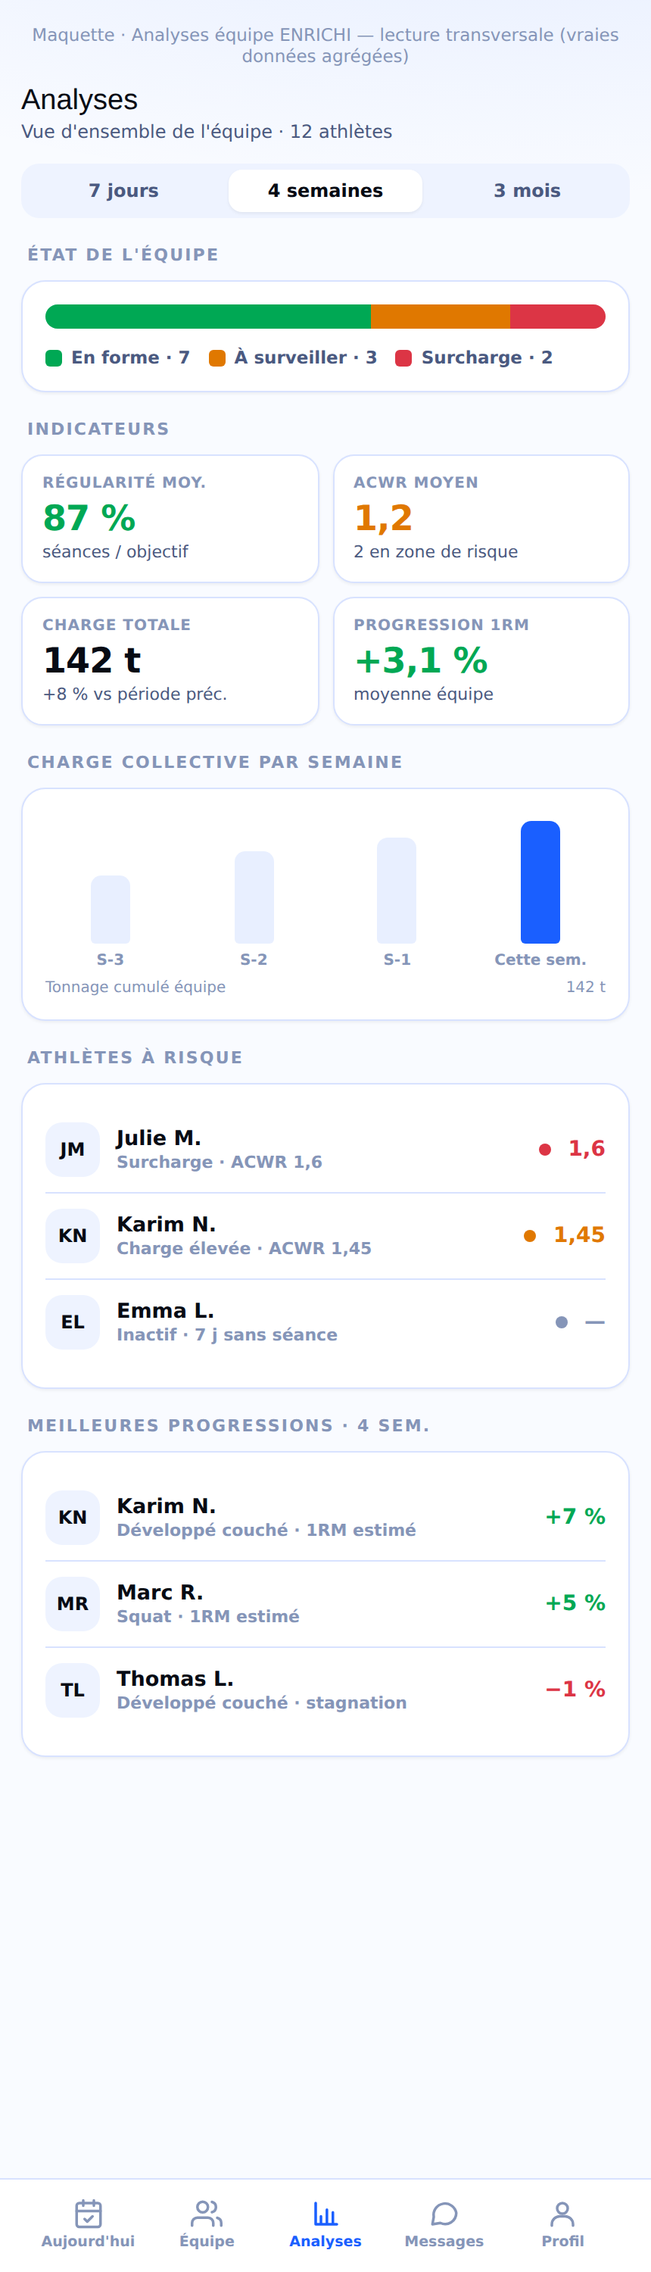
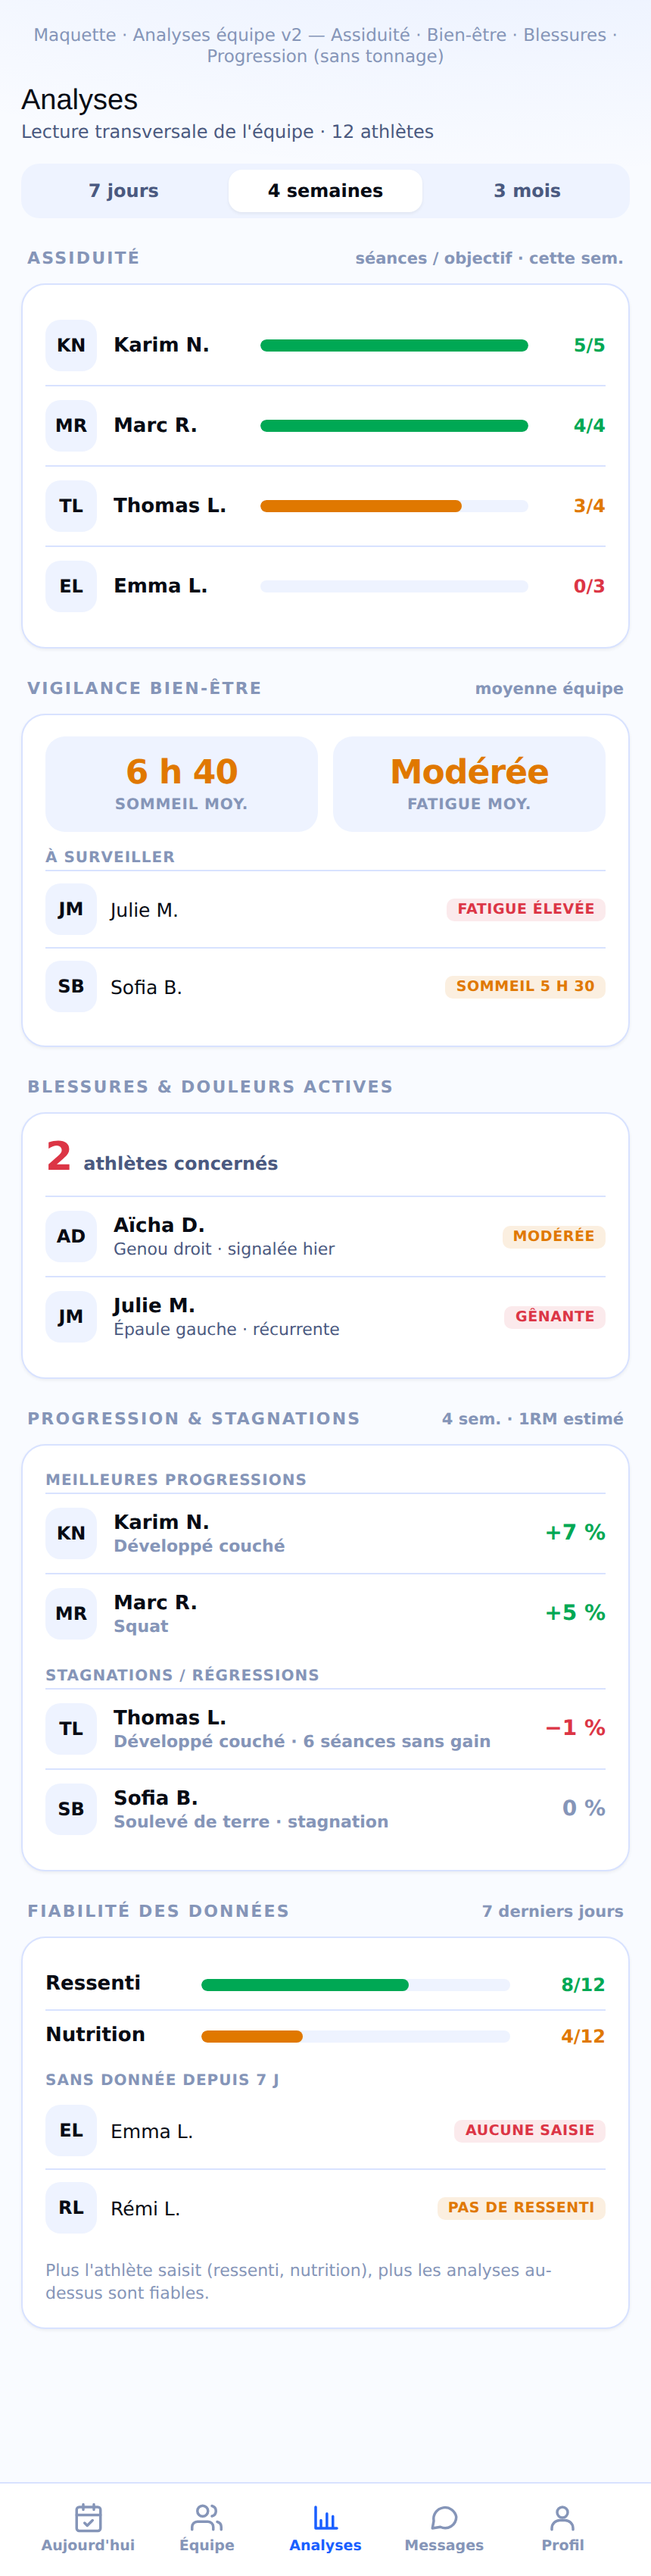
Maquette Analyses équipe v2 : assiduité, bien-être, blessures, progression, fiabilité (sans tonnage)
Remplace le tonnage/snapshot d'états par des blocs décisionnels non
redondants : Assiduité (classement régularité), Vigilance bien-être
(sommeil/fatigue moyens + à surveiller), Blessures & douleurs actives,
Progression & stagnations (1RM estimé), Fiabilité des données (taux de
saisie ressenti/nutrition).

Claude-Session: https://claude.ai/code/session_01Dyo8fwGQF8enz2j8mVwhAb

diff --git a/mockups/novalyz-coach-analyses-team.html b/mockups/novalyz-coach-analyses-team.html
@@ -1,6 +1,6 @@
 <!doctype html>
 <html lang="fr"><head><meta charset="utf-8"><meta name="viewport" content="width=device-width,initial-scale=1,viewport-fit=cover">
-<title>Novalyz — Analyses équipe (enrichi)</title>
+<title>Novalyz — Analyses équipe (v2)</title>
 <link href="https://fonts.googleapis.com/css2?family=Michroma&family=Inter:wght@400;500;600;700;800;900&display=swap" rel="stylesheet">
 <style>
   :root{--bg:#F9FBFF;--surface:#FFFFFF;--surface2:#EEF3FF;--border:#D8E2FF;--text:#070B14;--text-muted:#4A5980;--text-subtle:#8595B8;--accent:#1A5FFF;--accent-a10:rgba(26,95,255,.10);--good:#00A854;--good-a:rgba(0,168,84,.12);--warn:#E07800;--warn-a:rgba(224,120,0,.12);--danger:#DC3545;--danger-a:rgba(220,53,69,.10);--sh-sm:0 1px 2px rgba(7,11,20,.06)}
@@ -9,62 +9,88 @@
   body{background:radial-gradient(1100px 420px at 80% -8%,var(--accent-a10),transparent 60%),var(--bg);color:var(--text);font-family:Inter,system-ui,sans-serif;-webkit-font-smoothing:antialiased;padding:16px 14px 90px;min-height:100vh}
   .phone{max-width:420px;margin:0 auto}.mk-note{max-width:420px;margin:0 auto 12px;font-size:11.5px;color:var(--text-subtle);text-align:center}
   h1{font-family:Michroma,sans-serif;font-weight:400;font-size:19px;margin:2px 0 2px}.sub{font-size:12px;color:var(--text-muted);margin-bottom:14px}
-  .seg{display:flex;gap:6px;background:var(--surface2);border-radius:12px;padding:4px;margin-bottom:16px}.seg .s{flex:1;text-align:center;font-size:12px;font-weight:700;padding:7px 0;border-radius:9px;color:var(--text-muted)}.seg .s.on{background:var(--surface);color:var(--text);box-shadow:var(--sh-sm);font-weight:800}
-  .sec{font-size:11px;font-weight:800;letter-spacing:.1em;text-transform:uppercase;color:var(--text-subtle);margin:18px 4px 10px}
-  .card{background:var(--surface);border:1px solid var(--border);border-radius:16px;box-shadow:var(--sh-sm);padding:15px}
-  .dist{display:flex;height:16px;border-radius:999px;overflow:hidden;margin-bottom:12px;background:var(--surface2)}.dist i{height:100%}
-  .leg{display:flex;flex-wrap:wrap;gap:12px}.leg .it{display:flex;align-items:center;gap:6px;font-size:11.5px;color:var(--text-muted);font-weight:600}.leg .sw{width:11px;height:11px;border-radius:3px}
-  .kpis{display:grid;grid-template-columns:1fr 1fr;gap:9px}
-  .kpi{background:var(--surface);border:1px solid var(--border);border-radius:14px;padding:13px;box-shadow:var(--sh-sm)}.kpi .l{font-size:10px;font-weight:800;letter-spacing:.05em;text-transform:uppercase;color:var(--text-subtle)}.kpi .n{font-size:23px;font-weight:900;letter-spacing:-.02em;margin-top:5px}.kpi .t{font-size:11px;color:var(--text-muted);margin-top:2px}
-  .bars{display:flex;align-items:flex-end;gap:9px;height:104px;padding-top:6px}.bars .b{flex:1;display:flex;flex-direction:column;align-items:center;gap:6px;height:100%;justify-content:flex-end}.bars .bar{width:100%;max-width:26px;border-radius:7px 7px 3px 3px;background:var(--accent)}.bars .bar.dim{background:var(--accent-a10)}.bars .bl{font-size:10px;color:var(--text-subtle);font-weight:700}
-  .axis{display:flex;justify-content:space-between;font-size:10px;color:var(--text-subtle);margin-top:7px}
-  .ath{display:flex;align-items:center;gap:11px;padding:10px 0;border-top:1px solid var(--border)}.ath:first-child{border-top:0}
-  .pf{width:36px;height:36px;border-radius:11px;flex:none;display:grid;place-items:center;font-weight:800;font-size:12px;background:var(--surface2)}
-  .ath .nm{flex:1;min-width:0;font-size:13.5px;font-weight:700}.ath .nm small{display:block;font-size:11px;color:var(--text-subtle);font-weight:600;margin-top:1px}
-  .val{font-size:14px;font-weight:900;font-variant-numeric:tabular-nums}.val.bad{color:var(--danger)}.val.good{color:var(--good)}.val.warn{color:var(--warn)}
-  .dot{width:8px;height:8px;border-radius:50%;flex:none}
+  .seg{display:flex;gap:6px;background:var(--surface2);border-radius:12px;padding:4px;margin-bottom:6px}.seg .s{flex:1;text-align:center;font-size:12px;font-weight:700;padding:7px 0;border-radius:9px;color:var(--text-muted)}.seg .s.on{background:var(--surface);color:var(--text);box-shadow:var(--sh-sm);font-weight:800}
+  .sec{font-size:11px;font-weight:800;letter-spacing:.1em;text-transform:uppercase;color:var(--text-subtle);margin:20px 4px 10px;display:flex;align-items:center;justify-content:space-between}
+  .sec .r{font-size:10.5px;font-weight:800;color:var(--text-subtle);text-transform:none;letter-spacing:0}
+  .card{background:var(--surface);border:1px solid var(--border);border-radius:16px;box-shadow:var(--sh-sm);padding:14px 15px}
+  .pf{width:34px;height:34px;border-radius:10px;flex:none;display:grid;place-items:center;font-weight:800;font-size:12px;background:var(--surface2)}
+  /* assiduité */
+  .arow{display:flex;align-items:center;gap:11px;padding:9px 0;border-top:1px solid var(--border)}.arow:first-child{border-top:0}
+  .arow .nm{font-size:13px;font-weight:700;width:86px;flex:none;white-space:nowrap;overflow:hidden;text-overflow:ellipsis}
+  .track{flex:1;height:8px;border-radius:999px;background:var(--surface2);overflow:hidden}.track i{display:block;height:100%;border-radius:999px}
+  .arow .v{width:40px;flex:none;text-align:right;font-size:12px;font-weight:800;font-variant-numeric:tabular-nums}
+  /* bien-être gauges */
+  .gauges{display:flex;gap:10px;margin-bottom:12px}
+  .g{flex:1;background:var(--surface2);border-radius:13px;padding:12px;text-align:center}
+  .g .n{font-size:22px;font-weight:900;letter-spacing:-.02em}.g .l{font-size:10px;font-weight:800;text-transform:uppercase;letter-spacing:.04em;color:var(--text-subtle);margin-top:3px}
+  .chipline{display:flex;align-items:center;gap:9px;padding:8px 0;border-top:1px solid var(--border);font-size:12.5px}
+  .chip{font-size:9.5px;font-weight:900;text-transform:uppercase;letter-spacing:.03em;border-radius:5px;padding:2px 7px;margin-left:auto}
+  .chip.warn{background:var(--warn-a);color:var(--warn)}.chip.bad{background:var(--danger-a);color:var(--danger)}
+  /* blessures */
+  .inj{display:flex;align-items:center;gap:11px;padding:9px 0;border-top:1px solid var(--border)}.inj:first-child{border-top:0}
+  .inj .nm{font-size:13px;font-weight:700}.inj .zo{font-size:11px;color:var(--text-muted);margin-top:1px}
+  .gr{font-size:9.5px;font-weight:900;text-transform:uppercase;letter-spacing:.03em;border-radius:5px;padding:2px 7px;margin-left:auto}
+  .gr.mod{background:var(--warn-a);color:var(--warn)}.gr.hi{background:var(--danger-a);color:var(--danger)}
+  .count{display:flex;align-items:baseline;gap:7px;margin-bottom:10px}.count b{font-size:26px;font-weight:900}.count span{font-size:12px;color:var(--text-muted);font-weight:700}
+  /* progression */
+  .prow{display:flex;align-items:center;gap:11px;padding:9px 0;border-top:1px solid var(--border)}.prow:first-child{border-top:0}
+  .prow .nm{flex:1;min-width:0;font-size:13px;font-weight:700}.prow .nm small{display:block;font-size:11px;color:var(--text-subtle);font-weight:600;margin-top:1px}
+  .val{font-size:14px;font-weight:900;font-variant-numeric:tabular-nums}.val.good{color:var(--good)}.val.bad{color:var(--danger)}
+  .subhead{font-size:10px;font-weight:800;text-transform:uppercase;letter-spacing:.05em;color:var(--text-subtle);margin:4px 0 2px}
   .bandeau{position:fixed;bottom:0;left:0;right:0;display:flex;justify-content:center;background:var(--surface);border-top:1px solid var(--border);padding:8px 6px 10px}.bandeau .in{display:flex;justify-content:space-between;width:100%;max-width:392px}
   .bi{flex:1;display:flex;flex-direction:column;align-items:center;gap:3px;color:var(--text-subtle);padding:4px 0}.bi svg{width:21px;height:21px;fill:none;stroke:currentColor;stroke-width:2;stroke-linecap:round;stroke-linejoin:round}.bi span{font-size:9.5px;font-weight:700}.bi.on{color:var(--accent)}.bi.on span{font-weight:800}
 </style></head>
 <body>
-<div class="mk-note">Maquette · Analyses équipe ENRICHI — lecture transversale (vraies données agrégées)</div>
+<div class="mk-note">Maquette · Analyses équipe v2 — Assiduité · Bien-être · Blessures · Progression (sans tonnage)</div>
 <div class="phone">
   <h1>Analyses</h1>
-  <div class="sub">Vue d'ensemble de l'équipe · 12 athlètes</div>
+  <div class="sub">Lecture transversale de l'équipe · 12 athlètes</div>
   <div class="seg"><div class="s">7 jours</div><div class="s on">4 semaines</div><div class="s">3 mois</div></div>
 
-  <div class="sec">État de l'équipe</div>
+  <div class="sec">Assiduité <span class="r">séances / objectif · cette sem.</span></div>
   <div class="card">
-    <div class="dist"><i style="width:58%;background:var(--good)"></i><i style="width:25%;background:var(--warn)"></i><i style="width:17%;background:var(--danger)"></i></div>
-    <div class="leg"><span class="it"><span class="sw" style="background:var(--good)"></span>En forme · 7</span><span class="it"><span class="sw" style="background:var(--warn)"></span>À surveiller · 3</span><span class="it"><span class="sw" style="background:var(--danger)"></span>Surcharge · 2</span></div>
+    <div class="arow"><div class="pf">KN</div><div class="nm">Karim N.</div><div class="track"><i style="width:100%;background:var(--good)"></i></div><div class="v" style="color:var(--good)">5/5</div></div>
+    <div class="arow"><div class="pf">MR</div><div class="nm">Marc R.</div><div class="track"><i style="width:100%;background:var(--good)"></i></div><div class="v" style="color:var(--good)">4/4</div></div>
+    <div class="arow"><div class="pf">TL</div><div class="nm">Thomas L.</div><div class="track"><i style="width:75%;background:var(--warn)"></i></div><div class="v" style="color:var(--warn)">3/4</div></div>
+    <div class="arow"><div class="pf">EL</div><div class="nm">Emma L.</div><div class="track"><i style="width:0%;background:var(--danger)"></i></div><div class="v" style="color:var(--danger)">0/3</div></div>
   </div>
 
-  <div class="sec">Indicateurs</div>
-  <div class="kpis">
-    <div class="kpi"><div class="l">Régularité moy.</div><div class="n" style="color:var(--good)">87 %</div><div class="t">séances / objectif</div></div>
-    <div class="kpi"><div class="l">ACWR moyen</div><div class="n" style="color:var(--warn)">1,2</div><div class="t">2 en zone de risque</div></div>
-    <div class="kpi"><div class="l">Charge totale</div><div class="n">142 t</div><div class="t">+8 % vs période préc.</div></div>
-    <div class="kpi"><div class="l">Progression 1RM</div><div class="n" style="color:var(--good)">+3,1 %</div><div class="t">moyenne équipe</div></div>
+  <div class="sec">Vigilance bien-être <span class="r">moyenne équipe</span></div>
+  <div class="card">
+    <div class="gauges">
+      <div class="g"><div class="n" style="color:var(--warn)">6 h 40</div><div class="l">Sommeil moy.</div></div>
+      <div class="g"><div class="n" style="color:var(--warn)">Modérée</div><div class="l">Fatigue moy.</div></div>
+    </div>
+    <div class="subhead">À surveiller</div>
+    <div class="chipline"><div class="pf">JM</div><span>Julie M.</span><span class="chip bad">Fatigue élevée</span></div>
+    <div class="chipline"><div class="pf">SB</div><span>Sofia B.</span><span class="chip warn">Sommeil 5 h 30</span></div>
   </div>
 
-  <div class="sec">Charge collective par semaine</div>
+  <div class="sec">Blessures & douleurs actives</div>
   <div class="card">
-    <div class="bars"><div class="b"><div class="bar dim" style="height:46%"></div><div class="bl">S-3</div></div><div class="b"><div class="bar dim" style="height:62%"></div><div class="bl">S-2</div></div><div class="b"><div class="bar dim" style="height:71%"></div><div class="bl">S-1</div></div><div class="b"><div class="bar" style="height:92%"></div><div class="bl">Cette sem.</div></div></div>
-    <div class="axis"><span>Tonnage cumulé équipe</span><span>142 t</span></div>
+    <div class="count"><b style="color:var(--danger)">2</b><span>athlètes concernés</span></div>
+    <div class="inj"><div class="pf">AD</div><div style="flex:1;min-width:0"><div class="nm">Aïcha D.</div><div class="zo">Genou droit · signalée hier</div></div><span class="gr mod">Modérée</span></div>
+    <div class="inj"><div class="pf">JM</div><div style="flex:1;min-width:0"><div class="nm">Julie M.</div><div class="zo">Épaule gauche · récurrente</div></div><span class="gr hi">Gênante</span></div>
   </div>
 
-  <div class="sec">Athlètes à risque</div>
+  <div class="sec">Progression & stagnations <span class="r">4 sem. · 1RM estimé</span></div>
   <div class="card">
-    <div class="ath"><div class="pf">JM</div><div class="nm">Julie M.<small>Surcharge · ACWR 1,6</small></div><span class="dot" style="background:var(--danger)"></span><span class="val bad">1,6</span></div>
-    <div class="ath"><div class="pf">KN</div><div class="nm">Karim N.<small>Charge élevée · ACWR 1,45</small></div><span class="dot" style="background:var(--warn)"></span><span class="val warn">1,45</span></div>
-    <div class="ath"><div class="pf">EL</div><div class="nm">Emma L.<small>Inactif · 7 j sans séance</small></div><span class="dot" style="background:var(--text-subtle)"></span><span class="val" style="color:var(--text-subtle)">—</span></div>
+    <div class="subhead">Meilleures progressions</div>
+    <div class="prow"><div class="pf">KN</div><div class="nm">Karim N.<small>Développé couché</small></div><span class="val good">+7 %</span></div>
+    <div class="prow"><div class="pf">MR</div><div class="nm">Marc R.<small>Squat</small></div><span class="val good">+5 %</span></div>
+    <div class="subhead" style="margin-top:10px">Stagnations / régressions</div>
+    <div class="prow"><div class="pf">TL</div><div class="nm">Thomas L.<small>Développé couché · 6 séances sans gain</small></div><span class="val bad">−1 %</span></div>
+    <div class="prow"><div class="pf">SB</div><div class="nm">Sofia B.<small>Soulevé de terre · stagnation</small></div><span class="val" style="color:var(--text-subtle)">0 %</span></div>
   </div>
 
-  <div class="sec">Meilleures progressions · 4 sem.</div>
+  <div class="sec">Fiabilité des données <span class="r">7 derniers jours</span></div>
   <div class="card">
-    <div class="ath"><div class="pf">KN</div><div class="nm">Karim N.<small>Développé couché · 1RM estimé</small></div><span class="val good">+7 %</span></div>
-    <div class="ath"><div class="pf">MR</div><div class="nm">Marc R.<small>Squat · 1RM estimé</small></div><span class="val good">+5 %</span></div>
-    <div class="ath"><div class="pf">TL</div><div class="nm">Thomas L.<small>Développé couché · stagnation</small></div><span class="val bad">−1 %</span></div>
+    <div class="arow" style="border-top:0"><div class="nm" style="width:92px">Ressenti</div><div class="track"><i style="width:67%;background:var(--good)"></i></div><div class="v" style="color:var(--good);width:52px">8/12</div></div>
+    <div class="arow"><div class="nm" style="width:92px">Nutrition</div><div class="track"><i style="width:33%;background:var(--warn)"></i></div><div class="v" style="color:var(--warn);width:52px">4/12</div></div>
+    <div class="subhead" style="margin-top:8px">Sans donnée depuis 7 j</div>
+    <div class="chipline" style="border-top:0"><div class="pf">EL</div><span>Emma L.</span><span class="chip bad">Aucune saisie</span></div>
+    <div class="chipline"><div class="pf">RL</div><span>Rémi L.</span><span class="chip warn">Pas de ressenti</span></div>
+    <div style="font-size:11px;color:var(--text-subtle);margin-top:9px;line-height:1.4">Plus l'athlète saisit (ressenti, nutrition), plus les analyses au-dessus sont fiables.</div>
   </div>
 </div>
 <nav class="bandeau"><div class="in">
